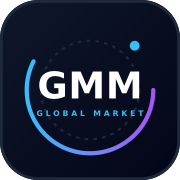
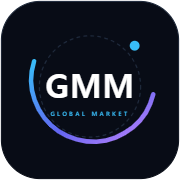
feat: GMM 벡터 아이콘(SVG) 추가 및 PWA 매니페스트 설정 개선

diff --git a/index.html b/index.html
@@ -15,11 +15,19 @@
 	<meta name="viewport" content="width=device-width, initial-scale=1.0">
 	<title>Global Market Monitor</title>
 
-	<!-- ★ PWA 웹앱 및 파비콘 연동 -->
+	<!-- PWA 웹앱 및 파비콘 연동 -->
 	<link rel="manifest" href="manifest.json">
-	<link rel="icon" href="./images/icon-180.png" type="image/png">
-	<link rel="apple-touch-icon" href="./images/icon-512.png">
-	<meta name="theme-color" content="#1e293b">
+
+	<!-- SVG 파비콘 (모던 브라우저에서 무한 해상도 벡터로 선명하게 표시) -->
+	<link rel="icon" href="./images/icon.svg" type="image/svg+xml">
+	<!-- 구형 브라우저 및 호환용 180 PNG -->
+	<link rel="icon" href="./images/icon-180.png" type="image/png" sizes="180x180">
+
+	<!-- iOS 홈 화면 추가용 (180x180 권장) -->
+	<link rel="apple-touch-icon" href="./images/icon-180.png" sizes="180x180">
+
+	<!-- 상단바 테마 색상 (아이콘 배경 톤에 맞춤) -->
+	<meta name="theme-color" content="#080c16">
 
 	<!-- 스타일 시트 & 폰트 -->
 	<link rel="stylesheet" href="./style.css">
